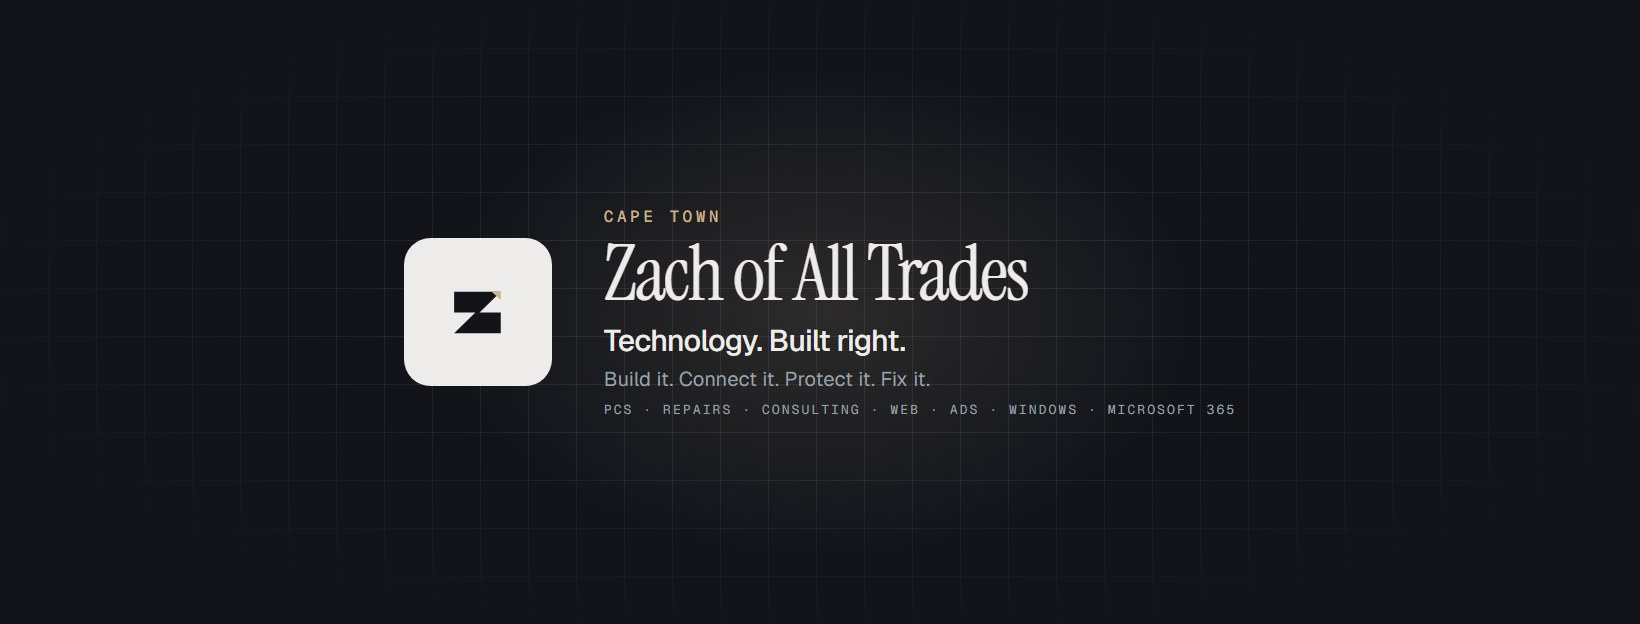
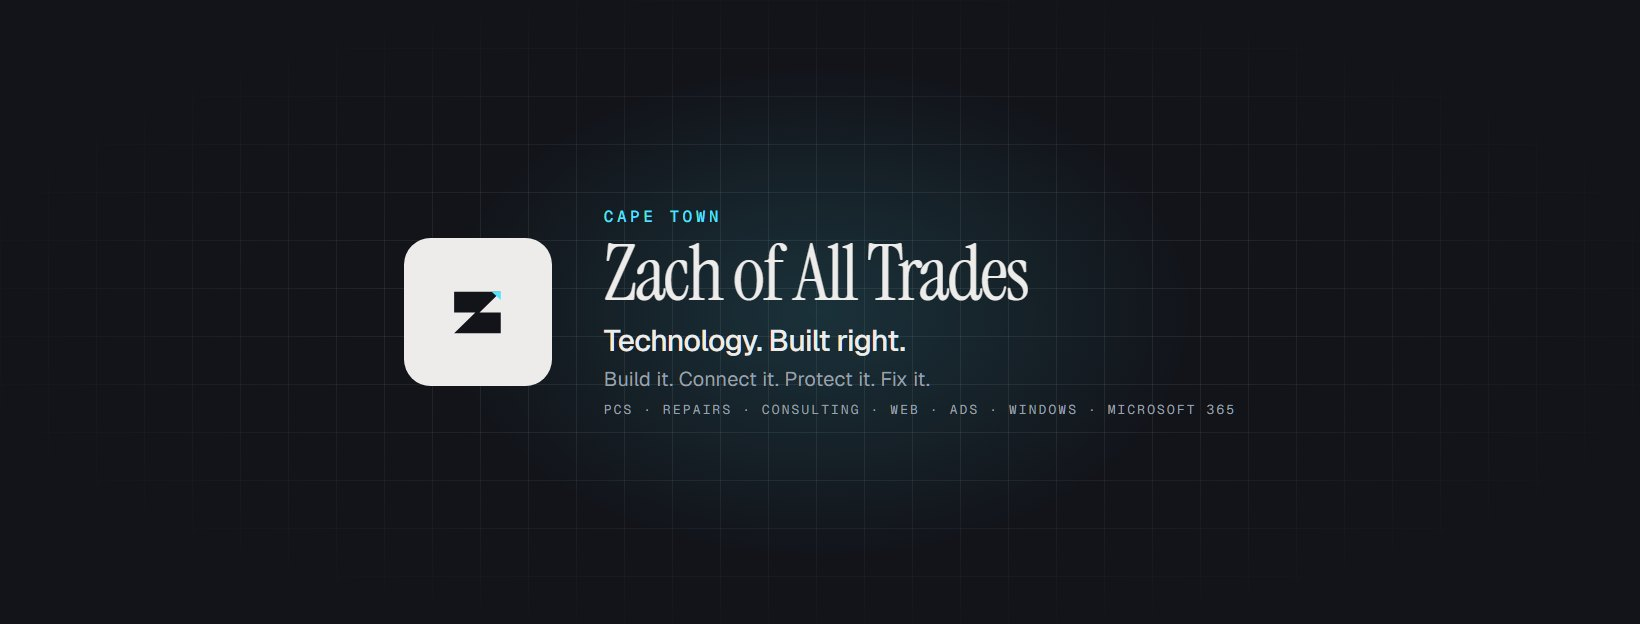
Swap leftover gold frame and email cover to cyan.
Chapter-frame corners and the hosted email cover now use #4EE3FF with the rest of the brand.

diff --git a/src/styles/global.css b/src/styles/global.css
@@ -36,7 +36,7 @@
   --glow-inset: rgba(78, 227, 255, 0.35);
   --loader-track: rgba(255, 255, 255, 0.12);
   --rail: rgba(255, 255, 255, 0.06);
-  --frame-gold: #cbb48c;
+  --frame-gold: #4ee3ff;
   --mark-tile: #e8eef4;
   --mark-z: #e8eef4;
   --mark-accent: #4ee3ff;
